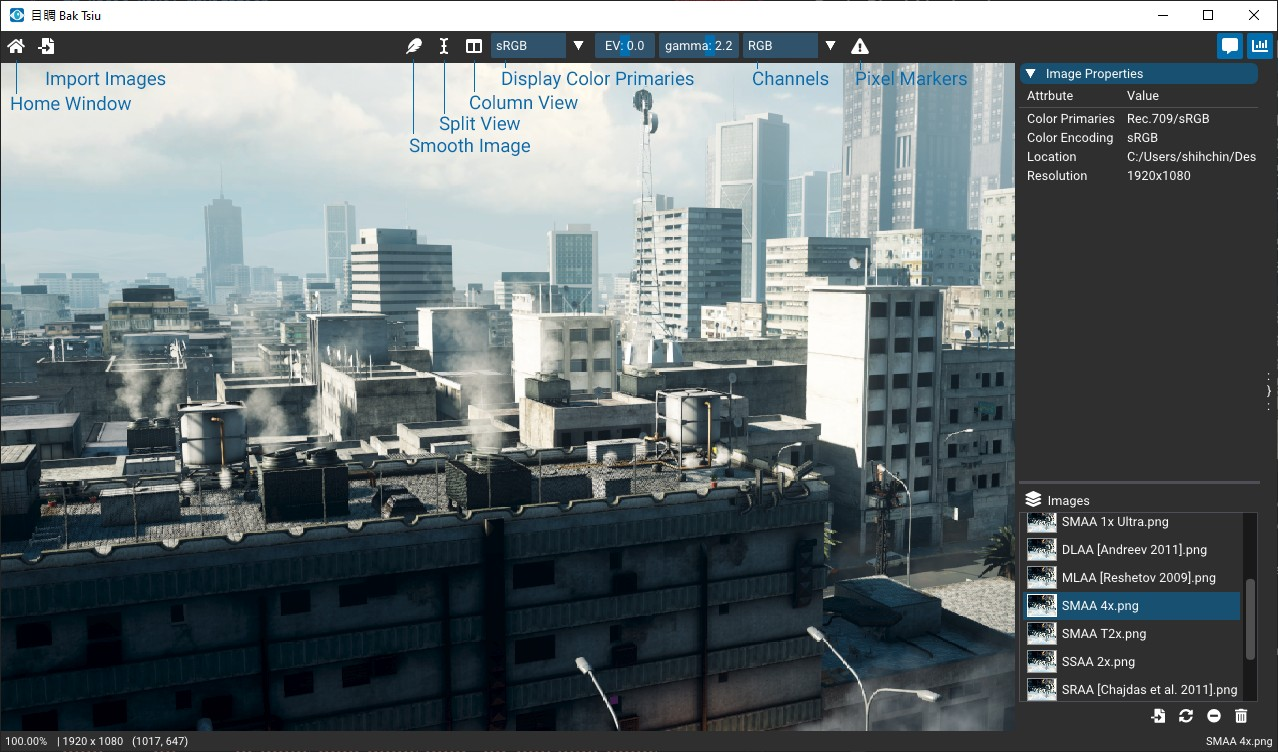
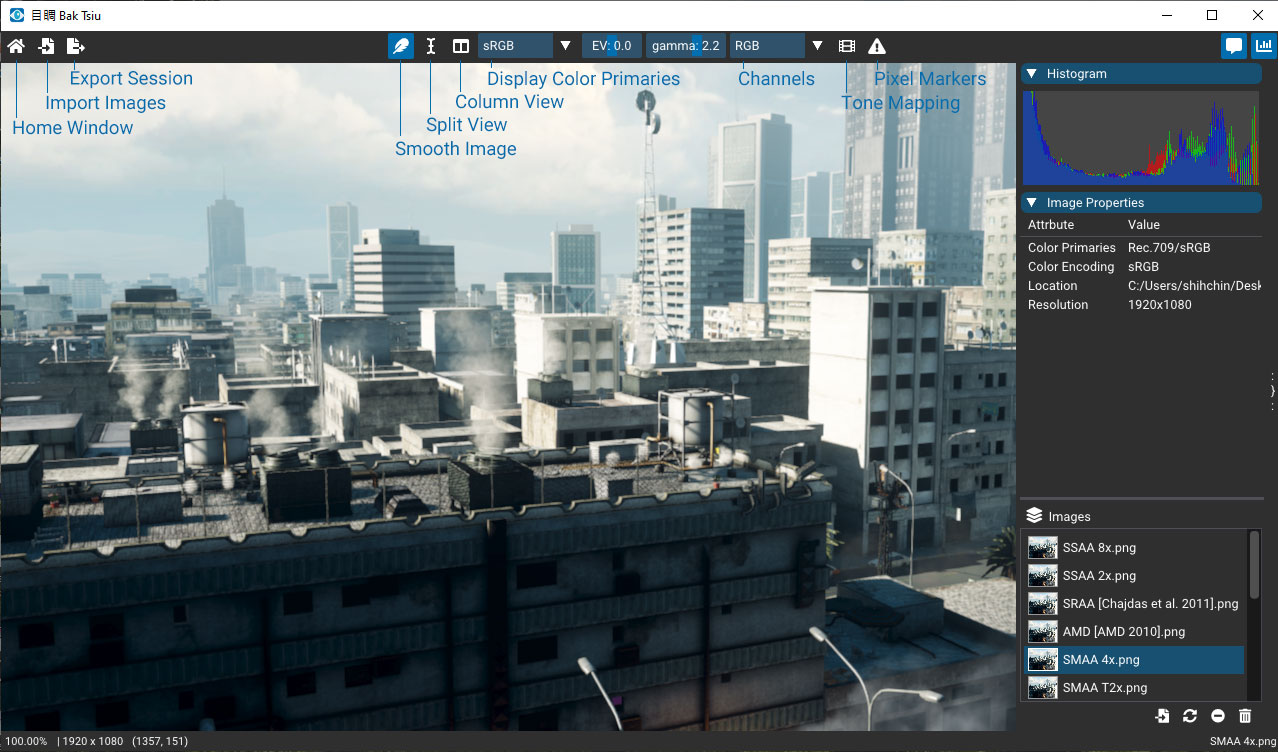
Update quickstart guide

diff --git a/src/app.cpp b/src/app.cpp
@@ -1588,7 +1588,7 @@ void    App::initHomeWindow(const char* name)
                 ImGui::Text("Zoom In/Out in Power-of-Two");
                 ImGui::Text("Zoom to Actual Size");
                 ImGui::Text("Fit to Viewport");
-                ImGui::Text("Sync Column View");
+                ImGui::Text("Sync Column Views");
                 ImGui::Text("Pixel Sniper");
                 ImGui::NextColumn();
 

diff --git a/docs/quickstart_guide.md b/docs/quickstart_guide.md
@@ -35,6 +35,8 @@ Press <kbd>C</kbd> or <i class="fas fa-columns"></i> button to toggle side-by-si
 
 The corresponding pixels would be highlighted in green border in close-up view. If there is no highlighted border shown in another view, please move the splitter to make more space and pan the view to the region of interests.
 
+To apply local translation to current column view, just press <kbd>Alt</kbd> and drag left mouse button. If you want to synchronize local translation of both views, press <kbd>Alt+C</kbd>.
+
 ## Image Layers <i class="fas fa-layer-group"></i>
 
 Press <kbd>Tab</kbd> key or click <i class="fas fa-chart-bar"></i> button to toggle property window. Click left mouse button on the image item to display it on the left; click right mouse button for the displayed image on the right.
@@ -75,6 +77,12 @@ Range clipping detection (not shown in heatmap mode):
 * Shadow clipping (blue mark): if all RGB values < 0.00001
 * Highlight clipping (red mark): if all RGB values > 1.0
 
+## Tone Mapping <i class="fas fa-film"></i>
+
+Numerical [approximation](https://github.com/shihchinw/numex/blob/master/notebooks/aces_color_transform.ipynb) of ACES tone mapping.
+
+![](images/tone_mapping.jpg)
+
 ## Controls
 
 |To do this|Press|
@@ -87,15 +95,18 @@ Range clipping detection (not shown in heatmap mode):
 | Toggle Linear Image Filter | <kbd>Q</kbd> |
 | **Files** |
 | Import Images | <kbd>Ctrl+O</kbd> |
+| Export Session | <kbd>Ctrl+E</kbd> |
 | Reload Selected Image | <kbd>F5</kbd> |
 | Close Selected Image | <kbd>Backspace</kbd> or <kbd>Del</kbd> |
 | Close All Images | <kbd>Ctrl+Shift+W</kbd> |
 | **Pixel Navigation** |
 | Pan View | Drag Left Mouse Button |
+| Offset Column View | Drag Left Mouse Button + <kbd>Alt</kbd> |
 | Zoom In/Out | Scroll Mouse or<br>Drag Left + Right Mouse Buttons Vertically |
 | Zoom In/Out in Power-of-Two | <kbd>+</kbd> / <kbd>-</kbd> |
 | Zoom to Actual Size | <kbd>/</kbd> or <kbd>F</kbd> |
 | Fit to Viewport | <kbd>Shift+F</kbd> |
+| Sync Column Views | <kbd>Alt+C</kbd> |
 | Pixel Sniper | Holding <kbd>Z</kbd> |
 | **Image Selection** |
 | Next Compared Image | <kbd>D</kbd> or <kbd>&rarr;</kbd> |
